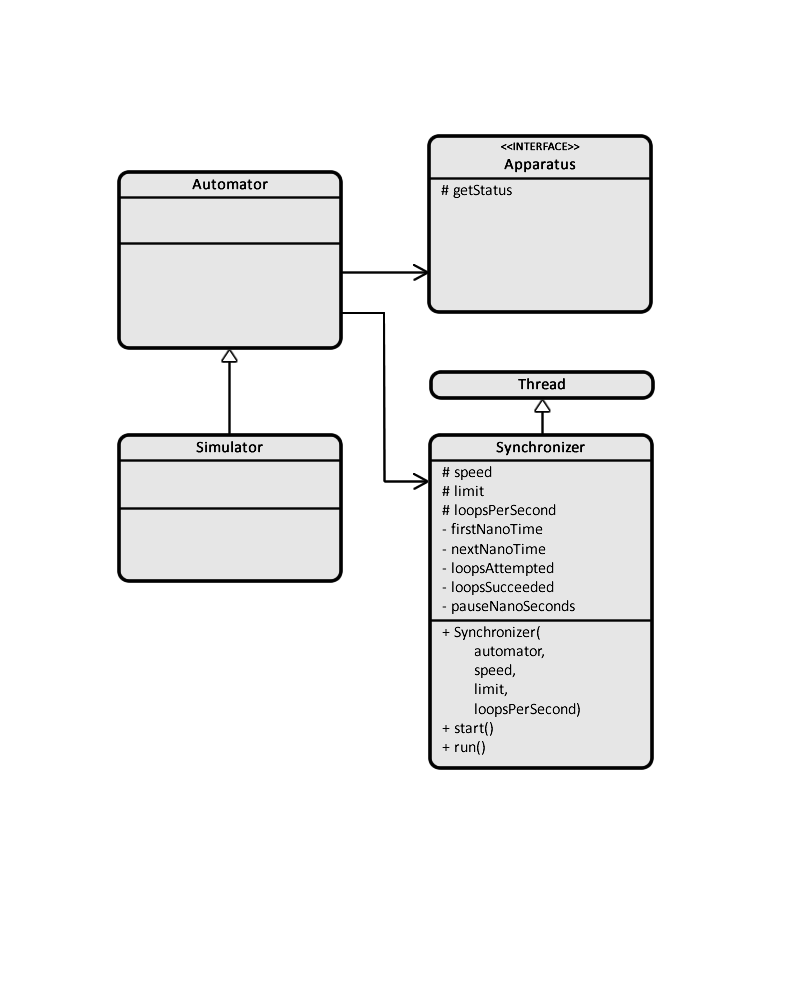
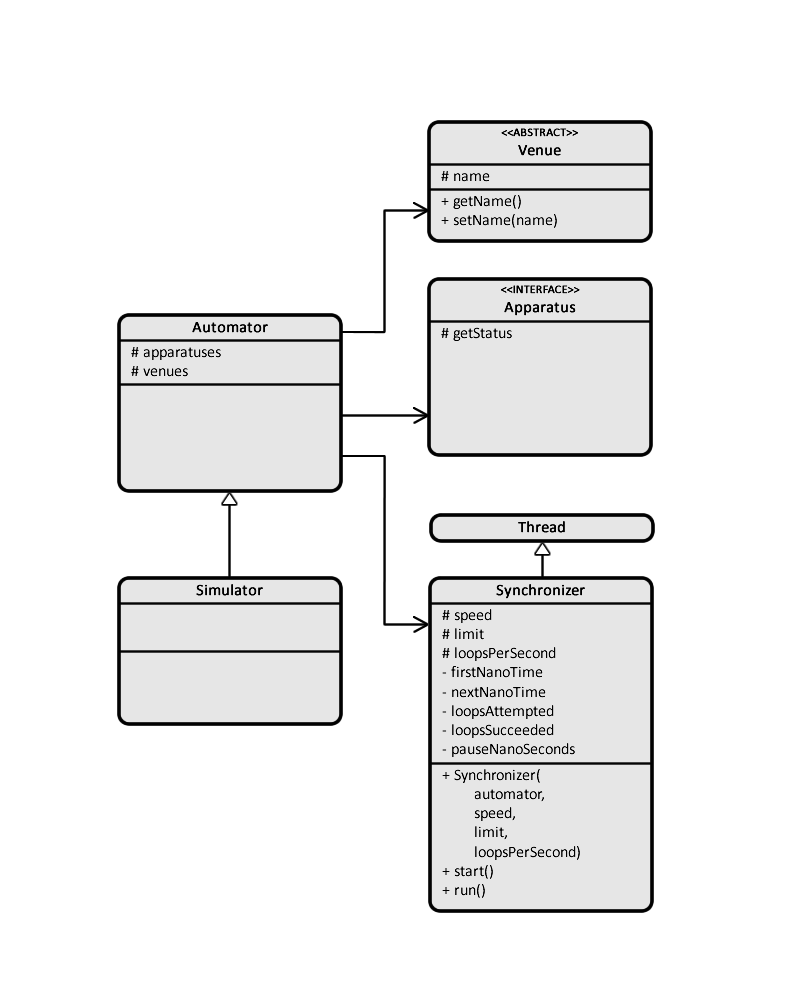
Add venues to the automator

Changed region(s): [[0.125, 0.093, 0.8438, 0.93]]

diff --git a/src/Automator.java b/src/Automator.java
@@ -4,6 +4,42 @@
 public class Automator extends Thread {
 
     /**
+     *
+     */
+    abstract class Venue {
+
+        protected String name = "Un-named Venue";
+
+        public String getName() { return this.name; }
+
+        public void setName(String name) { this.name = name; }
+    }
+
+    /**
+     *
+     */
+    class OutdoorVenue extends Venue {
+
+    }
+
+    /**
+     *
+     */
+    class IndoorVenue extends Venue {
+
+    }
+
+    /**
+     *
+     */
+    ArrayList<Venue> venues;
+
+    /**
+     *
+     */
+    ArrayList<Apparatus> apparatuses;
+
+    /**
      * Defines the number of nanoseconds in each second.
      */
     final public static double NANOSECONDS_PER_SECOND = 1000000000;
